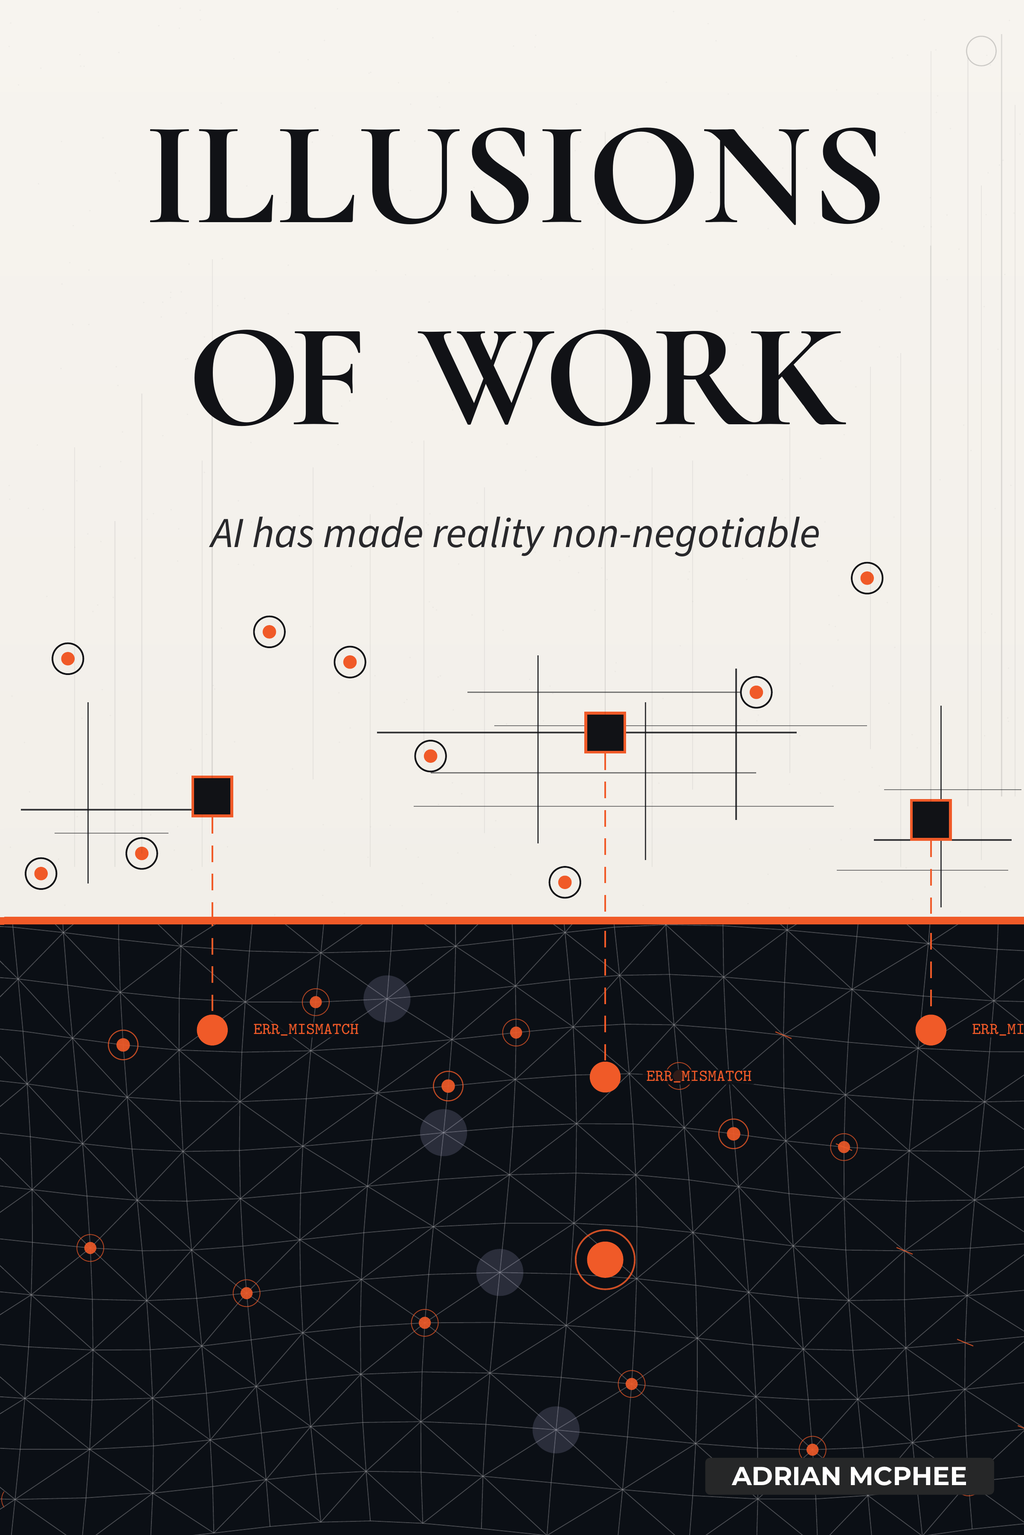
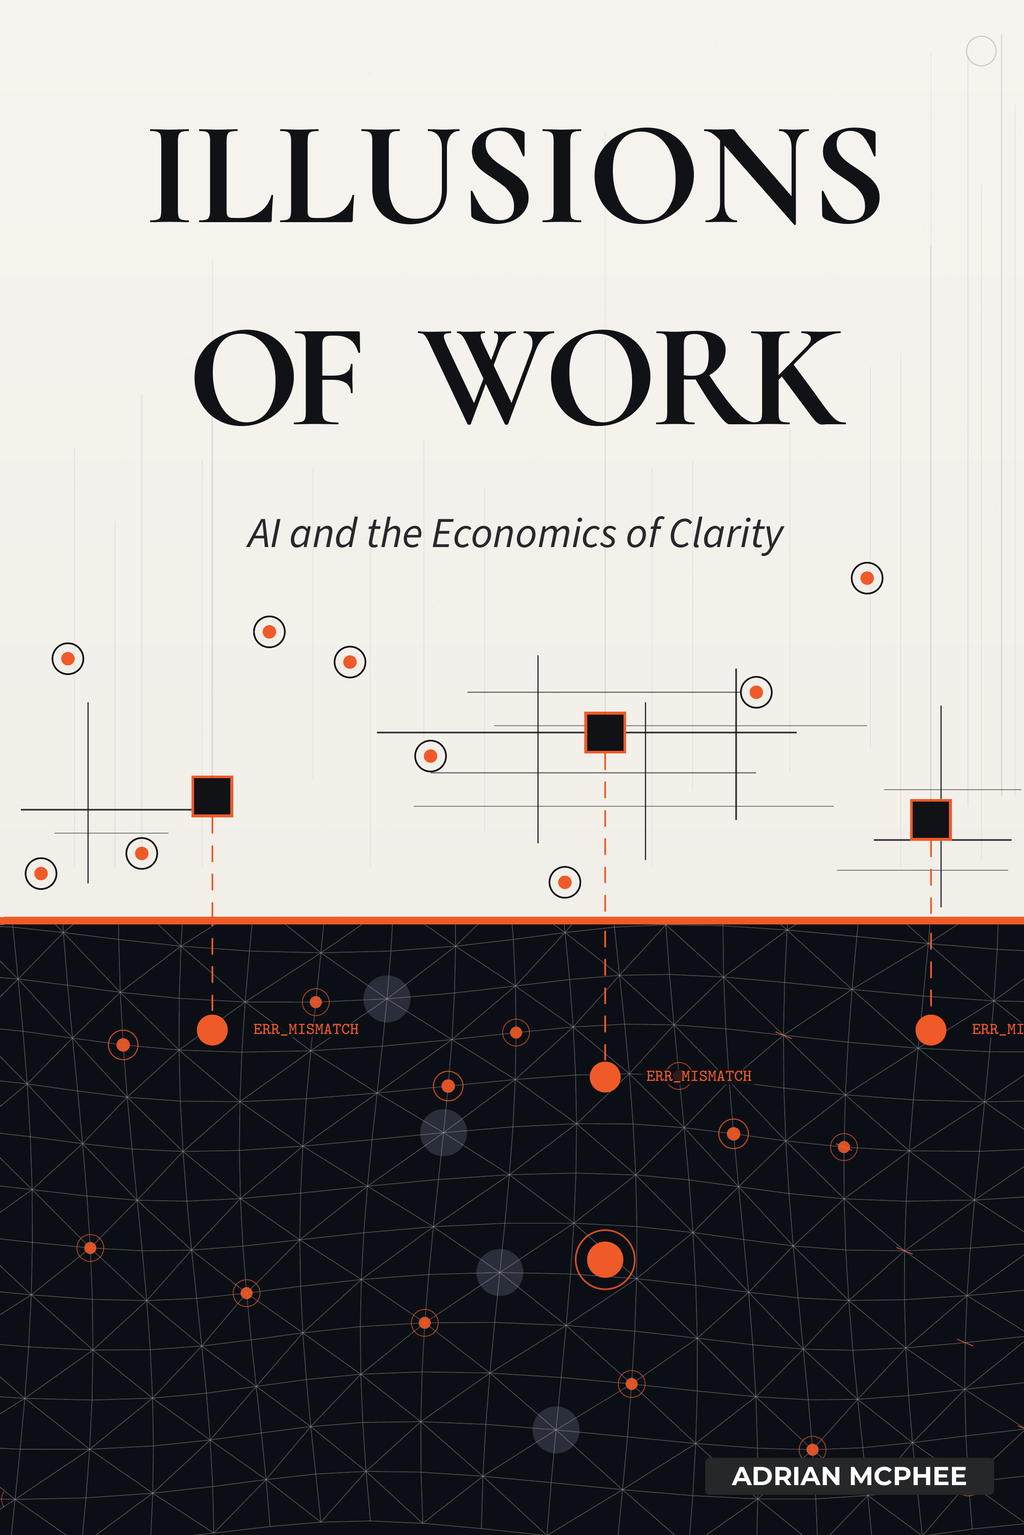
v1.9.0 — 2026-06-01 11:22

Changed region(s): [[0.2188, 0.3368, 0.8125, 0.3674]]

diff --git a/illusions-of-work/index.html b/illusions-of-work/index.html
@@ -4,7 +4,7 @@
   <meta charset="UTF-8">
   <meta name="viewport" content="width=device-width, initial-scale=1.0">
   <title>Illusions of Work by Adrian McPhee — Read Online</title>
-  <meta name="description" content="AI has made reality non-negotiable. Inside every software-dependent corporate, a small number of people know how the systems actually work. The deployed systems do not match the architecture diagrams. AI does not fix organisations. It changes the economics of clarity.">
+  <meta name="description" content="AI does not fix organisations; it changes the economics of clarity. Inside every software-dependent corporate, a small number of people know how the systems actually work, and the deployed systems do not match the architecture diagrams.">
   <meta name="author" content="Adrian McPhee">
 
   <link rel="icon" href="/favicon-32x32.png" sizes="32x32" type="image/png">
@@ -15,7 +15,7 @@
   <link rel="canonical" href="https://simpleisadvanced.com/illusions-of-work/">
   <meta property="og:type" content="book">
   <meta property="og:title" content="Illusions of Work — Read Online">
-  <meta property="og:description" content="AI has made reality non-negotiable. Inside every software-dependent corporate, a small number of people know how the systems actually work. The deployed systems do not match the architecture diagrams. AI does not fix organisations. It changes the economics of clarity.">
+  <meta property="og:description" content="AI does not fix organisations; it changes the economics of clarity. Inside every software-dependent corporate, a small number of people know how the systems actually work, and the deployed systems do not match the architecture diagrams.">
   <meta property="og:image" content="https://simpleisadvanced.com/illusions-of-work/og-image.png">
   <meta property="og:image:width" content="1200">
   <meta property="og:image:height" content="630">
@@ -26,7 +26,7 @@
   <!-- Twitter Card -->
   <meta name="twitter:card" content="summary_large_image">
   <meta name="twitter:title" content="Illusions of Work — Read Online">
-  <meta name="twitter:description" content="AI has made reality non-negotiable. Inside every software-dependent corporate, a small number of people know how the systems actually work. The deployed systems do not match the architecture diagrams. AI does not fix organisations. It changes the economics of clarity.">
+  <meta name="twitter:description" content="AI does not fix organisations; it changes the economics of clarity. Inside every software-dependent corporate, a small number of people know how the systems actually work, and the deployed systems do not match the architecture diagrams.">
   <meta name="twitter:image" content="https://simpleisadvanced.com/illusions-of-work/og-image.png">
 
   <script type="application/ld+json">
@@ -34,7 +34,7 @@
     "@context": "https://schema.org",
     "@type": "Book",
     "name": "Illusions of Work",
-    "subtitle": "AI Has Made Reality Non-Negotiable",
+    "subtitle": "AI and the Economics of Clarity",
     "author": {
       "@type": "Person",
       "name": "Adrian McPhee",
@@ -233,7 +233,7 @@
   </div>
 
   <a href="preview.html" style="display:none;">Preview chapters</a>
-  <script src="app.js?v=1.8.12"></script>
+  <script src="app.js?v=1.9.0"></script>
   <script>lucide.createIcons();</script>
 </body>
 </html>

diff --git a/illusions-of-work/contents.html b/illusions-of-work/contents.html
@@ -4,7 +4,7 @@
   <meta charset="UTF-8">
   <meta name="viewport" content="width=device-width, initial-scale=1.0">
   <title>Illusions of Work — Contents</title>
-  <meta name="description" content="Full table of contents for Illusions of Work by Adrian McPhee. AI has made reality non-negotiable. For engineers, architects, and CTOs.">
+  <meta name="description" content="Full table of contents for Illusions of Work by Adrian McPhee. AI and the economics of clarity. For engineers, architects, and CTOs.">
   <meta name="author" content="Adrian McPhee">
   <link rel="canonical" href="https://simpleisadvanced.com/illusions-of-work/contents.html">
   <link rel="icon" href="/favicon-32x32.png" sizes="32x32" type="image/png">
@@ -12,7 +12,7 @@
   <link rel="apple-touch-icon" href="/apple-touch-icon.png">
   <meta property="og:type" content="book">
   <meta property="og:title" content="Illusions of Work — Contents">
-  <meta property="og:description" content="Full table of contents for Illusions of Work by Adrian McPhee. AI has made reality non-negotiable.">
+  <meta property="og:description" content="Full table of contents for Illusions of Work by Adrian McPhee. AI and the economics of clarity.">
   <meta property="og:image" content="https://simpleisadvanced.com/illusions-of-work/og-image.png">
   <meta property="og:image:width" content="1200">
   <meta property="og:image:height" content="630">
@@ -20,14 +20,14 @@
   <meta property="og:site_name" content="Simple is Advanced">
   <meta name="twitter:card" content="summary_large_image">
   <meta name="twitter:title" content="Illusions of Work — Contents">
-  <meta name="twitter:description" content="Full table of contents. AI has made reality non-negotiable.">
+  <meta name="twitter:description" content="Full table of contents. AI and the economics of clarity.">
   <meta name="twitter:image" content="https://simpleisadvanced.com/illusions-of-work/og-image.png">
   <script type="application/ld+json">
   {
     "@context": "https://schema.org",
     "@type": "Book",
     "name": "Illusions of Work",
-    "subtitle": "AI Has Made Reality Non-Negotiable",
+    "subtitle": "AI and the Economics of Clarity",
     "author": {"@type": "Person", "name": "Adrian McPhee", "url": "https://www.linkedin.com/in/adrianmcphee/"},
     "url": "https://simpleisadvanced.com/illusions-of-work/",
     "image": "https://simpleisadvanced.com/illusions-of-work/og-image.png"
@@ -69,7 +69,7 @@
 <body>
   <a class="book-link" href="/">&larr; Simple is Advanced</a>
   <h1>Illusions of Work</h1>
-  <p class="subtitle">AI Has Made Reality Non-Negotiable</p>
+  <p class="subtitle">AI and the Economics of Clarity</p>
   <p class="audience">For engineers, architects, and CTOs</p>
 
   <ol>

diff --git a/illusions-of-work/chapters/introduction/index.html b/illusions-of-work/chapters/introduction/index.html
@@ -109,7 +109,7 @@
   <h1>Introduction</h1>
   <p class="chapter-summary">If your organisation refers to “the business” as a group that excludes engineers, this book is about your company. It maps the structural dysfunction of software-dependent corporates and the changes AI now demands.</p>
 
-  <p>If you have ever sat in a meeting where everyone agreed on a plan you knew could not work, and stayed silent because speaking up would cost more than the dysfunction itself, this book explains why that keeps happening and what changes when the structure stops rewarding it. The problem is structure, not attitude.</p>
+  <p>If you have ever sat in a meeting where everyone agreed on a plan you knew could not work, and stayed silent because speaking up would cost more than the dysfunction itself, this book explains why that keeps happening and what changes when the structure stops rewarding it.</p>
 <p>This book is for people who work inside software-dependent corporates and suspect that something is structurally wrong. It is for CTOs, senior engineers, architects, and product leaders who have watched technology investment produce activity without proportional outcomes, and who suspect the cause is not execution, talent, or technology, but something in the structure itself that no one has named. It will also be useful to CEOs willing to engage the operational detail behind that diagnosis. The board-level case is made separately in the companion volume, Illusions in the Boardroom.</p>
 <p>The examples in this book are fictional, but they are not hypothetical. Each is a composite drawn from patterns observed repeatedly across software-dependent corporates in banking, insurance, retail, logistics, and enterprise software. If they feel familiar, that is the point. The figures attached to them are illustrative of the magnitude these patterns reach rather than measurements of any single named organisation: the cost of a cancelled platform investment, the months of coordination behind a few days of code, the improvement a first autonomous unit produces. Each is something you can measure in your own; the appendix A Note on the Numbers sets out how, and what a sceptic should ask before accepting any figure in these pages.</p>
 <p>There is a particular kind of exhaustion that comes from working inside a large organisation that now runs on software, if you are close to how things actually work. It is quiet and corrosive: the feeling of navigating representations everyone treats as real, while knowing that they are not.</p>

diff --git a/index.html b/index.html
@@ -60,7 +60,7 @@
       {
         "@type": "Book",
         "name": "Illusions of Work",
-        "subtitle": "AI Has Made Reality Non-Negotiable",
+        "subtitle": "AI and the Economics of Clarity",
         "author": { "@id": "#author" },
         "description": "Inside every software-dependent corporate, a small number of people know how the systems actually work. AI does not fix organisations. It changes the economics of clarity. For engineers, architects, and CTOs.",
         "url": "https://simpleisadvanced.com/illusions-of-work/",
@@ -333,7 +333,7 @@
     <a class="book book-iow" href="/illusions-of-work/">
       <img class="book-cover" src="/illusions-of-work/cover.png" alt="Illusions of Work">
       <h2 class="book-title">Illusions of Work</h2>
-      <p class="book-subtitle">AI Has Made Reality Non-Negotiable</p>
+      <p class="book-subtitle">AI and the Economics of Clarity</p>
       <p class="book-audience">For engineers, architects, and CTOs</p>
       <span class="book-cta">Read now</span>
     </a>

diff --git a/illusions-of-work/chapters/when-clarity-becomes-cheaper-than-pretence/index.html b/illusions-of-work/chapters/when-clarity-becomes-cheaper-than-pretence/index.html
@@ -4,7 +4,7 @@
   <meta charset="UTF-8">
   <meta name="viewport" content="width=device-width, initial-scale=1.0">
   <title>When Clarity Becomes Cheaper Than Pretence — Illusions of Work</title>
-  <meta name="description" content="AI is categorically different from previous technology waves because it collapses the cost of synthesis, making clarity cheap and pretence expensive for the...">
+  <meta name="description" content="AI is categorically different from previous technology waves because it collapses the cost of synthesis, making clarity cheap and pretence expensive...">
   <meta name="author" content="Adrian McPhee">
   <meta name="robots" content="max-snippet:300">
   <link rel="canonical" href="https://simpleisadvanced.com/illusions-of-work/chapters/when-clarity-becomes-cheaper-than-pretence/">

diff --git a/illusions-of-work/chapters/customer-journeys-are-business-processes/index.html b/illusions-of-work/chapters/customer-journeys-are-business-processes/index.html
@@ -4,7 +4,7 @@
   <meta charset="UTF-8">
   <meta name="viewport" content="width=device-width, initial-scale=1.0">
   <title>Customer Journeys Are Business Processes — Illusions of Work</title>
-  <meta name="description" content="Customer journeys and business processes describe the same mechanism observed from opposite sides, but most organisations treat them as separate concerns...">
+  <meta name="description" content="Customer journeys and business processes describe the same mechanism observed from opposite sides, but most organisations treat them as separate...">
   <meta name="author" content="Adrian McPhee">
   <meta name="robots" content="max-snippet:300">
   <link rel="canonical" href="https://simpleisadvanced.com/illusions-of-work/chapters/customer-journeys-are-business-processes/">

diff --git a/illusions-of-work/chapters/microservices-without-autonomy/index.html b/illusions-of-work/chapters/microservices-without-autonomy/index.html
@@ -4,7 +4,7 @@
   <meta charset="UTF-8">
   <meta name="viewport" content="width=device-width, initial-scale=1.0">
   <title>Microservices Without Autonomy — Illusions of Work</title>
-  <meta name="description" content="When the monolith was split, the coupling did not disappear; it migrated into shared schemas, shared databases, and undocumented inter-service dependencies.">
+  <meta name="description" content="When the monolith was split, the coupling did not disappear; it migrated into shared schemas, shared databases, and undocumented inter-service...">
   <meta name="author" content="Adrian McPhee">
   <meta name="robots" content="max-snippet:300">
   <link rel="canonical" href="https://simpleisadvanced.com/illusions-of-work/chapters/microservices-without-autonomy/">

diff --git a/illusions-of-work/preview.html b/illusions-of-work/preview.html
@@ -27,7 +27,7 @@
     "@context": "https://schema.org",
     "@type": "Book",
     "name": "Illusions of Work",
-    "subtitle": "AI Has Made Reality Non-Negotiable",
+    "subtitle": "AI and the Economics of Clarity",
     "author": {"@type": "Person", "name": "Adrian McPhee", "url": "https://www.linkedin.com/in/adrianmcphee/"},
     "url": "https://simpleisadvanced.com/illusions-of-work/",
     "image": "https://simpleisadvanced.com/illusions-of-work/og-image.png"
@@ -71,7 +71,7 @@
 <body>
   <a class="book-link" href="/">&larr; Simple is Advanced</a>
   <h1>Illusions of Work</h1>
-  <p class="subtitle">AI Has Made Reality Non-Negotiable</p>
+  <p class="subtitle">AI and the Economics of Clarity</p>
   <p class="audience">For engineers, architects, and CTOs</p>
 
   <ol>

diff --git a/illusions-of-work/chapters/the-authority-to-decompose/index.html b/illusions-of-work/chapters/the-authority-to-decompose/index.html
@@ -4,7 +4,7 @@
   <meta charset="UTF-8">
   <meta name="viewport" content="width=device-width, initial-scale=1.0">
   <title>The Authority to Decompose — Illusions of Work</title>
-  <meta name="description" content="Scaling from one autonomous unit to many requires a transitional fund ring-fenced from the annual budget cycle and a CTO-CEO decision pair that collapses...">
+  <meta name="description" content="Scaling from one autonomous unit to many requires a transitional fund ring-fenced from the annual budget cycle and a CTO-CEO decision pair that...">
   <meta name="author" content="Adrian McPhee">
   <meta name="robots" content="max-snippet:300">
   <link rel="canonical" href="https://simpleisadvanced.com/illusions-of-work/chapters/the-authority-to-decompose/">

diff --git a/illusions-of-work/chapters/conclusion/index.html b/illusions-of-work/chapters/conclusion/index.html
@@ -4,7 +4,7 @@
   <meta charset="UTF-8">
   <meta name="viewport" content="width=device-width, initial-scale=1.0">
   <title>Conclusion — Illusions of Work</title>
-  <meta name="description" content="AI does not change organisations by itself. What changes the structure is the decision to make process ownership real: to give the people who understand the...">
+  <meta name="description" content="AI does not change organisations by itself. What changes the structure is the decision to make process ownership real: to give the people who...">
   <meta name="author" content="Adrian McPhee">
   <meta name="robots" content="max-snippet:300">
   <link rel="canonical" href="https://simpleisadvanced.com/illusions-of-work/chapters/conclusion/">

diff --git a/articles/drive-vs-drift/index.html b/articles/drive-vs-drift/index.html
@@ -285,7 +285,7 @@
       <img src="/illusions-of-work/cover.png" alt="Illusions of Work" class="book-cover">
       <div class="book-info">
         <strong>Illusions of Work</strong>
-        <span class="book-desc">AI Has Made Reality Non-Negotiable. The operator manual for CTOs and VPs of Engineering.</span>
+        <span class="book-desc">AI and the Economics of Clarity. The operator manual for CTOs and VPs of Engineering.</span>
         <span class="book-cta">Read now &rarr;</span>
       </div>
     </a>

diff --git a/articles/the-diagnostic-toolkit/index.html b/articles/the-diagnostic-toolkit/index.html
@@ -337,7 +337,7 @@ monitoring:
       <img src="/illusions-of-work/cover.png" alt="Illusions of Work" class="book-cover">
       <div class="book-info">
         <strong>Illusions of Work</strong>
-        <span class="book-desc">AI Has Made Reality Non-Negotiable. The operator manual for CTOs.</span>
+        <span class="book-desc">AI and the Economics of Clarity. The operator manual for CTOs.</span>
         <span class="book-cta">Read now &rarr;</span>
       </div>
     </a>
